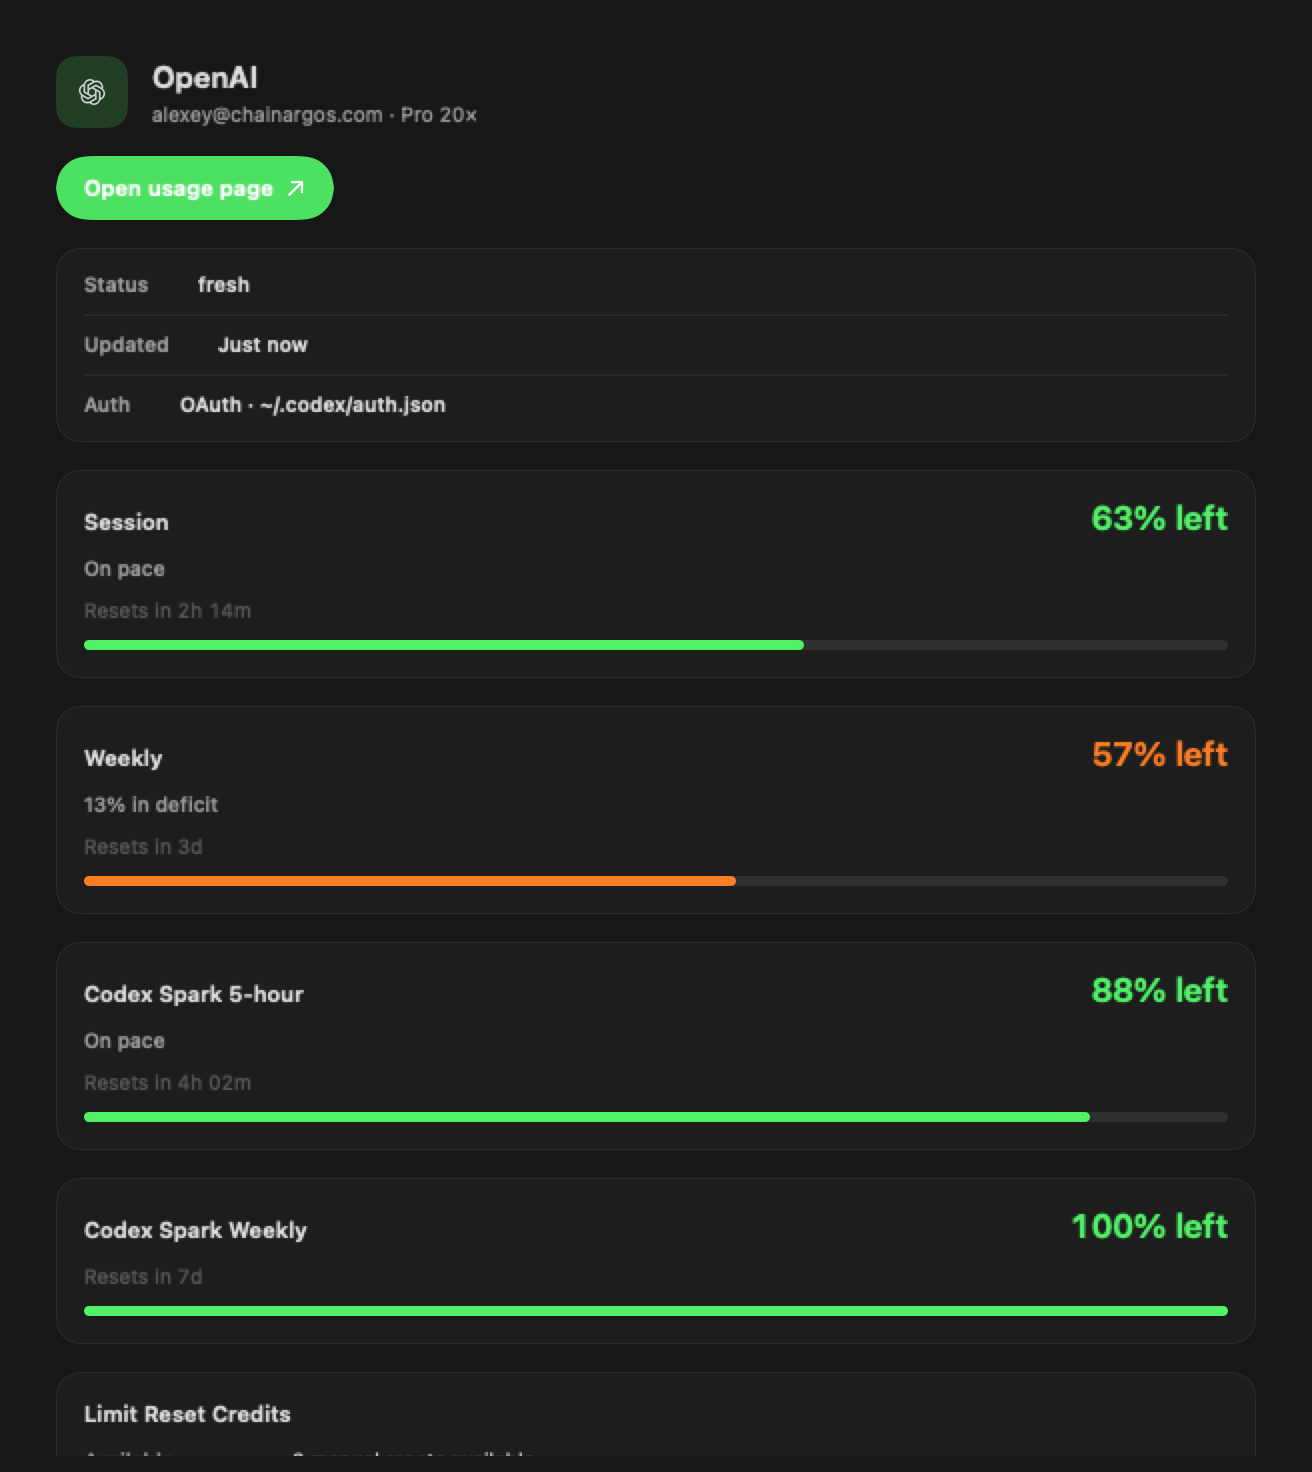
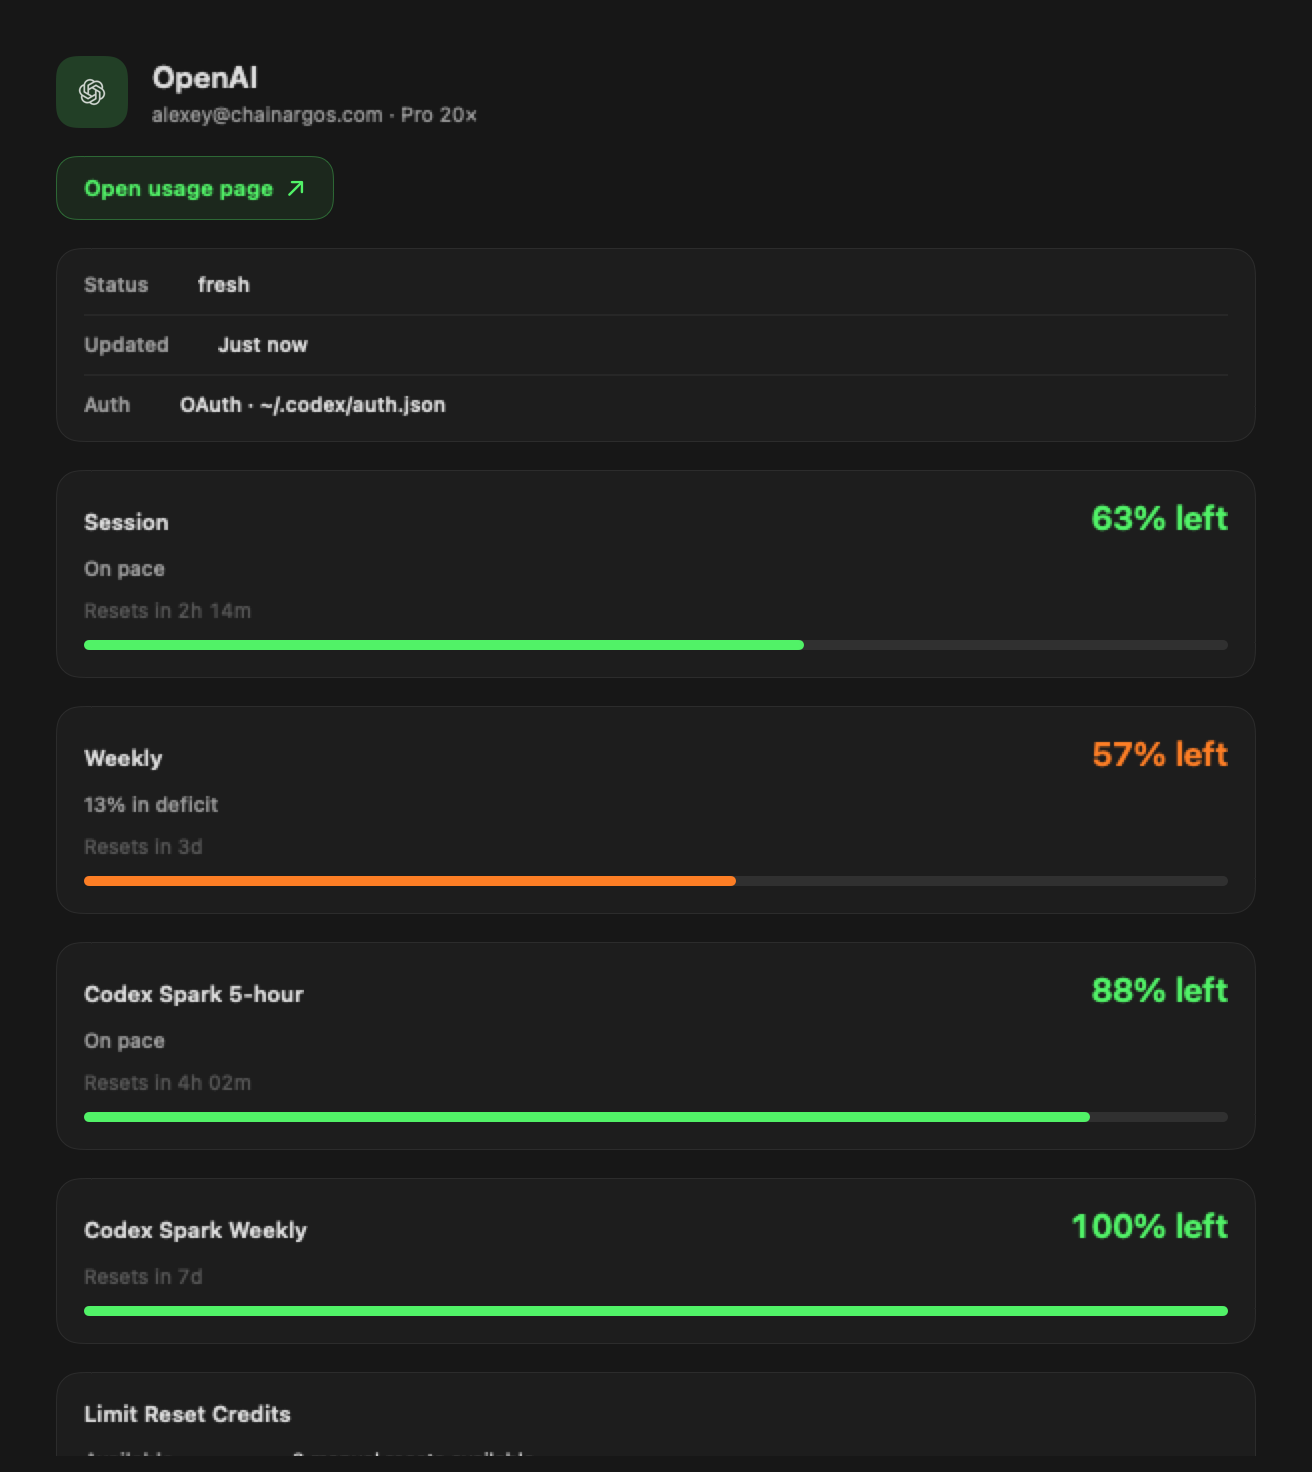
fix(desktop): match HTML primary controls
Replace solid phosphor usage CTA with oracle tint and hairline. Center popover footer action, then gate both craft rules.

Changed region(s): [[0.0312, 0.0938, 0.25, 0.1562]]

diff --git a/native/Tools/DesktopArchitectureLint/main.swift b/native/Tools/DesktopArchitectureLint/main.swift
@@ -38,6 +38,7 @@ struct DesktopArchitectureLint {
         checkGlassGate(desktopRoot: desktop)
         checkUsageWindowToolbarHost(desktopRoot: desktop)
         checkStatusPopoverFocusWiring(desktopRoot: desktop)
+        checkPrimaryControlCraft(desktopRoot: desktop)
         run(desktopRoot: desktop)
     }
 
@@ -119,6 +120,43 @@ struct DesktopArchitectureLint {
             print("PASS  status left-click popover focus wiring")
         } else {
             print("DesktopArchitectureLint: status-focus FAILURE")
+            exit(1)
+        }
+    }
+
+    /// LG-A9: primary actions use selective tint, never solid phosphor slabs.
+    static func checkPrimaryControlCraft(desktopRoot: URL) {
+        let providerCard = desktopRoot
+            .appendingPathComponent("UsageWindow/ProviderCardView.swift")
+        let popoverFooter = desktopRoot
+            .appendingPathComponent("Popover/PopoverFooter.swift")
+        guard
+            let providerText = try? String(contentsOf: providerCard, encoding: .utf8),
+            let footerText = try? String(contentsOf: popoverFooter, encoding: .utf8)
+        else {
+            fputs("FAIL  primary control sources missing\n", stderr)
+            exit(2)
+        }
+
+        var ok = true
+        if providerText.contains(".fill(Color.jackinPhosphor.opacity(0.92))") {
+            print("FAIL  Open usage page must not use a solid phosphor slab")
+            ok = false
+        }
+        if !providerText.contains(".strokeBorder(Color.jackinPhosphor.opacity(0.32)") {
+            print("FAIL  Open usage page must retain the HTML accent hairline")
+            ok = false
+        }
+        if !footerText.contains(".frame(maxWidth: .infinity, alignment: .center)")
+            || !footerText.contains(".foregroundStyle(Color.jackinPhosphor)")
+        {
+            print("FAIL  popover Open Usage Window must stay centered and accent-tinted")
+            ok = false
+        }
+        if ok {
+            print("PASS  primary controls avoid solid phosphor slabs")
+        } else {
+            print("DesktopArchitectureLint: primary-control FAILURE")
             exit(1)
         }
     }

diff --git a/native/Sources/JackinDesktop/UsageWindow/ProviderCardView.swift b/native/Sources/JackinDesktop/UsageWindow/ProviderCardView.swift
@@ -111,12 +111,16 @@ public struct ProviderCardView: View {
                 Image(systemName: "arrow.up.right")
                     .font(.caption.weight(.semibold))
             }
-            .foregroundStyle(Color.white)
+            .foregroundStyle(Color.jackinPhosphor)
             .padding(.horizontal, 14)
             .padding(.vertical, 9)
             .background {
-                Capsule(style: .continuous)
-                    .fill(Color.jackinPhosphor.opacity(0.92))
+                RoundedRectangle(cornerRadius: 10, style: .continuous)
+                    .fill(Color.jackinPhosphor.opacity(0.08))
+                    .overlay {
+                        RoundedRectangle(cornerRadius: 10, style: .continuous)
+                            .strokeBorder(Color.jackinPhosphor.opacity(0.32), lineWidth: 0.5)
+                    }
             }
         }
         .buttonStyle(.plain)

diff --git a/native/Sources/JackinDesktop/Popover/PopoverFooter.swift b/native/Sources/JackinDesktop/Popover/PopoverFooter.swift
@@ -26,12 +26,9 @@ public struct PopoverFooter: View {
                     .font(.body.weight(.semibold))
                 Text(title)
                     .font(.body.weight(.semibold))
-                Spacer(minLength: 0)
-                Image(systemName: "chevron.right")
-                    .font(.caption.weight(.semibold))
-                    .foregroundStyle(.secondary)
             }
-            .foregroundStyle(Color.primary)
+            .frame(maxWidth: .infinity, alignment: .center)
+            .foregroundStyle(Color.jackinPhosphor)
             .contentShape(Rectangle())
             .padding(.horizontal, 14)
             .padding(.vertical, 11)

diff --git a/advisor-plans/qi-artifacts/deltas/2026-08-10-usage-detail-openai.md b/advisor-plans/qi-artifacts/deltas/2026-08-10-usage-detail-openai.md
@@ -9,7 +9,7 @@
 | Check | HTML detail | Native detail | Match |
 |-------|-------------|---------------|-------|
 | Head | OpenAI · account · Pro 20× | same | Yes |
-| Open usage page | CTA + external | green pill + ↗ | Yes |
+| Open usage page | quiet tinted hairline + external | same; no solid phosphor slab | Yes |
 | Meta | Status fresh · Updated · Auth | same | Yes |
 | Session | **63% left** green | same | Yes |
 | Weekly | **57% left** orange · 13% deficit | same | Yes |

diff --git a/advisor-plans/qi-artifacts/deltas/2026-08-10-popover-openai.md b/advisor-plans/qi-artifacts/deltas/2026-08-10-popover-openai.md
@@ -16,6 +16,7 @@
 | Check | HTML | Native | Match |
 |-------|------|--------|-------|
 | Brand | jackin❯ desktop | same | Yes |
+| Footer CTA | centered phosphor glyph + label | same; no trailing chevron | Yes |
 | Session order | 63% → On pace → Resets 2h 14m → meter | same | **Yes** |
 | Weekly order | 57% → 13% deficit → Resets 3d → meter | same | **Yes** |
 | Spark / LRC | multi-limit plate | same | Yes |

diff --git a/advisor-plans/VISUAL_QA_LOG.md b/advisor-plans/VISUAL_QA_LOG.md
@@ -35,6 +35,10 @@ Log: `qi-artifacts/native/desktop-gates.log`
 
 **High residual craft product: none.**
 
+Re-audit closed false-pass primary-control deltas: Usage “Open usage page” now
+uses oracle’s quiet tint + 0.5 pt hairline instead of solid phosphor; popover
+footer CTA now matches centered phosphor glyph/label composition.
+
 ## Live
 popover-live / ctx-menu **BLOCKED** — SoTParity proves focus/menu.
 
